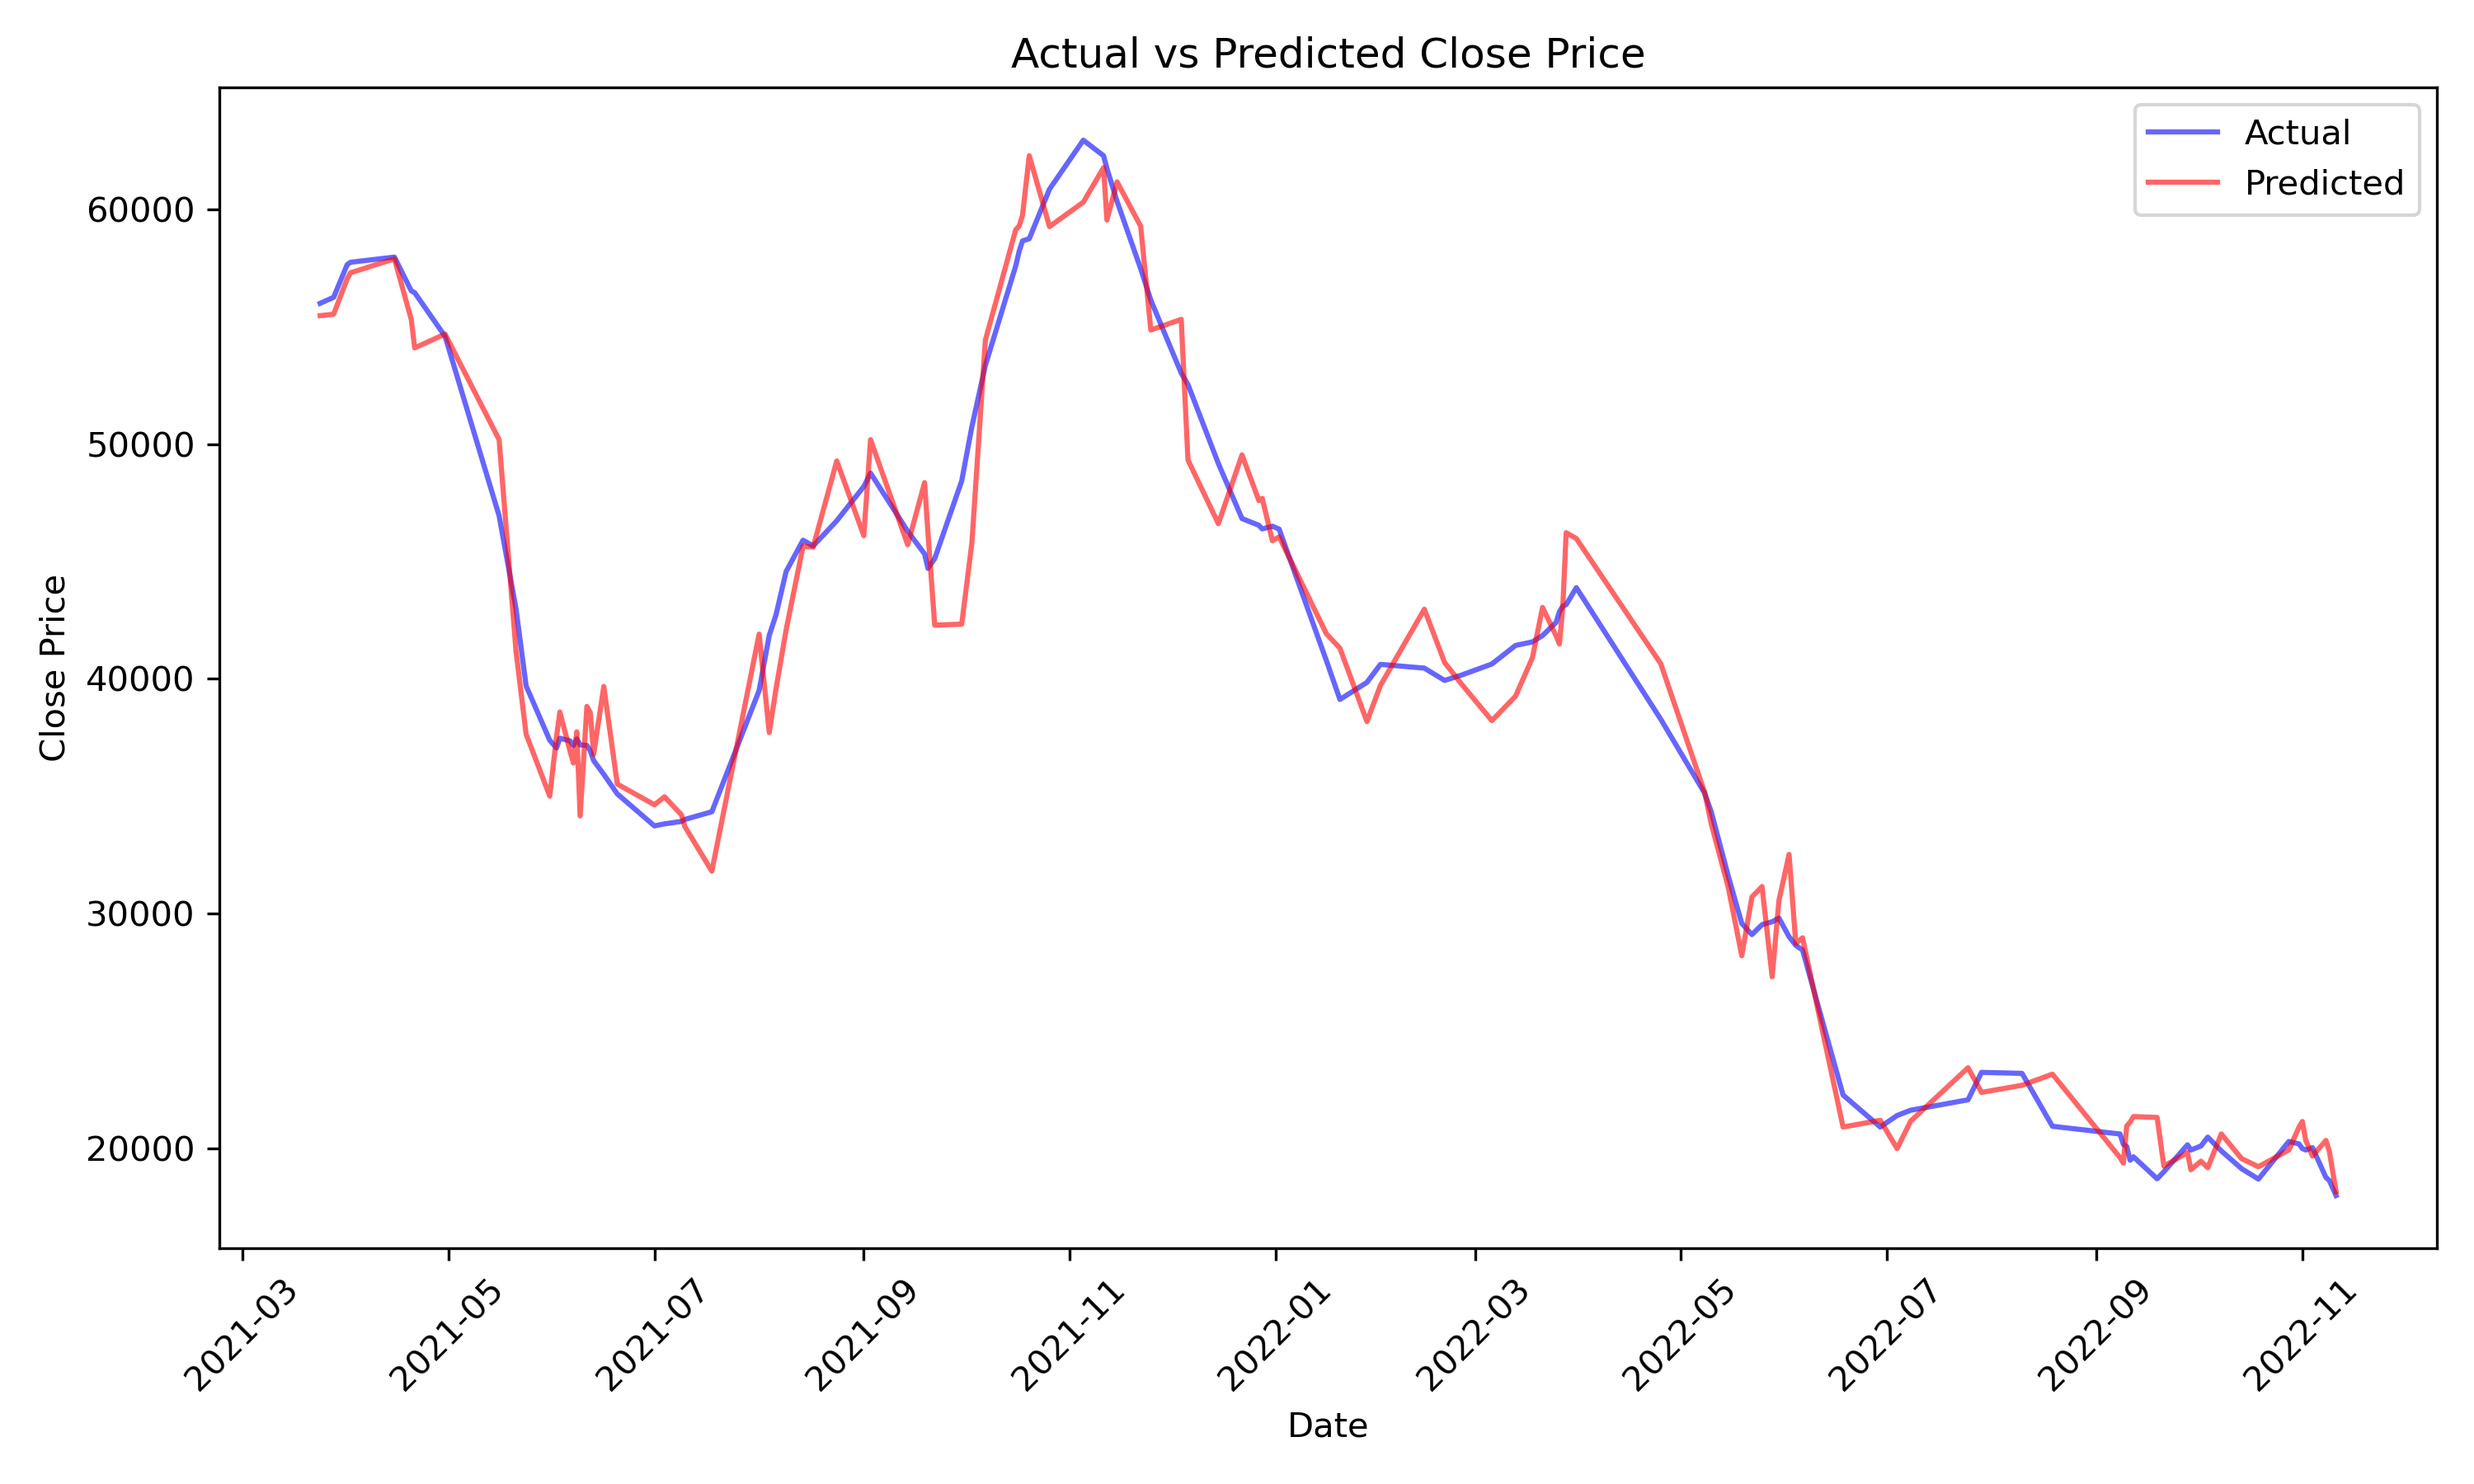
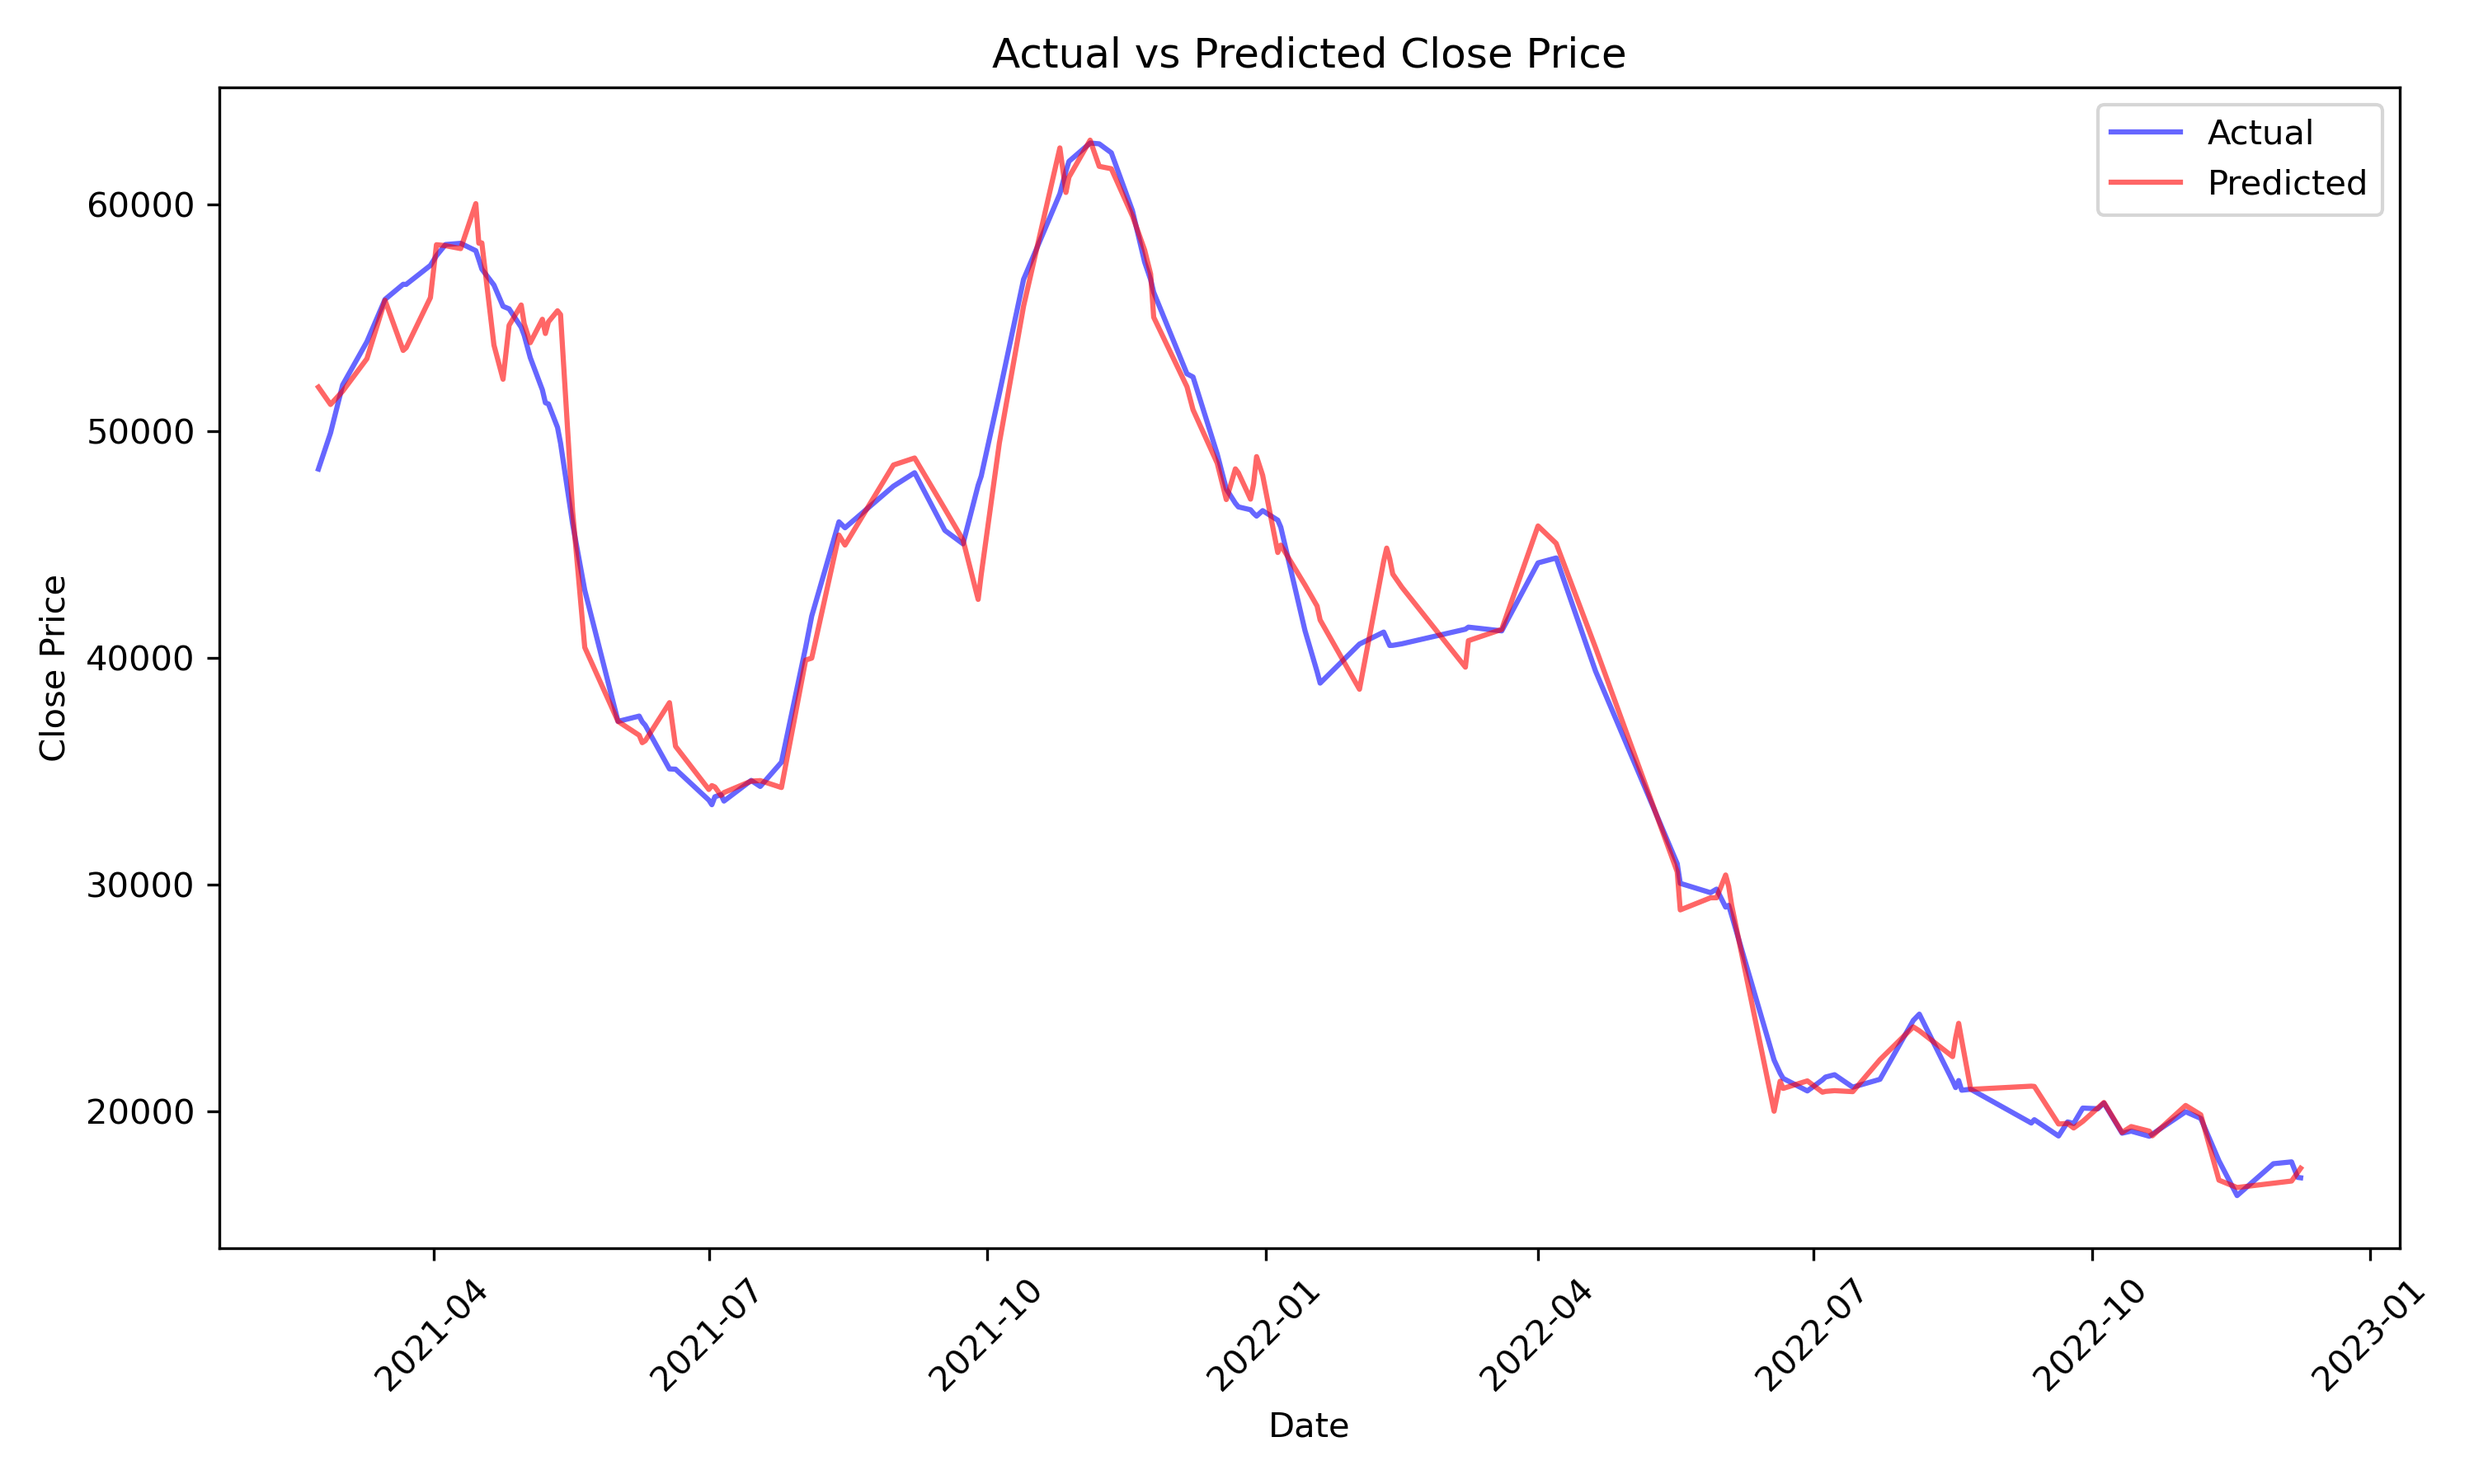
Update RF prediction

diff --git a/Correlation_Analysis/RF_quarterly(without_noise).py b/Correlation_Analysis/RF_quarterly(without_noise).py
@@ -31,11 +31,11 @@ def random_forest_prediction(data, feature):
         daily_info[f'prev_{x}'] = daily_info[x].shift(1)
 
     # Drop rows with NaN values (which will appear in the first row after shifting)
-    daily_info = daily_info.dropna()
+    daily_info = daily_info[daily_info['Close_Combined_Quarterly'].notna()]
 
     # Define X (features) and y (target)
     X = daily_info[variables]
-    y = daily_info['Quarterly_Data_Without_Noise']  # The current day's open price
+    y = daily_info['Close_Combined_Quarterly']  # The current day's close price
     dates = daily_info['Start']  # Store the dates for plotting
 
     # Split the data into training and testing sets
@@ -73,6 +73,6 @@ def random_forest_prediction(data, feature):
     plt.show()
 
 # Run the function
-data = '../data/without_noise/without_noise.csv'
-selected_feature = ['Open', 'High', 'Low', 'Close', 'Volume', 'Market Cap']
+data = '../data/without_noise/all_features_final.csv'
+selected_feature = ['Open_Combined_Weekly', 'High_Combined_Weekly', 'Low_Combined_Weekly', 'Close_Combined_Weekly', 'Volume_Combined_Weekly', 'Market Cap_Combined_Weekly']
 random_forest_prediction(data, selected_feature)

diff --git a/Correlation_Analysis/RF_monthly(without_noise).py b/Correlation_Analysis/RF_monthly(without_noise).py
@@ -32,11 +32,11 @@ def random_forest_prediction(data, feature):
         daily_info[f'prev_{x}'] = daily_info[x].shift(1)
 
     # Drop rows with NaN values (which will appear in the first row after shifting)
-    daily_info = daily_info.dropna()
+    daily_info = daily_info[daily_info['Close_Combined_Monthly'].notna()]
 
     # Define X (features) and y (target)
     X = daily_info[variables]
-    y = daily_info['Monthly_Data_Without_Noise']  # The current day's open price
+    y = daily_info['Close_Combined_Monthly']  # The current day's close price
     dates = daily_info['Start']  # Store the dates for plotting
 
     # Split the data into training and testing sets
@@ -74,6 +74,6 @@ def random_forest_prediction(data, feature):
     plt.show()
 
 # Run the function
-data = '../data/without_noise/without_noise.csv'
-selected_feature = ['Open', 'High', 'Low', 'Close', 'Volume', 'Market Cap']
+data = '../data/without_noise/all_features_final.csv'
+selected_feature = ['Open_Combined_Weekly', 'High_Combined_Weekly', 'Low_Combined_Weekly', 'Close_Combined_Weekly', 'Volume_Combined_Weekly', 'Market Cap_Combined_Weekly']
 random_forest_prediction(data, selected_feature)

diff --git a/Correlation_Analysis/RF_weekly(without_noise).py b/Correlation_Analysis/RF_weekly(without_noise).py
@@ -31,11 +31,11 @@ def random_forest_prediction(data, feature):
         daily_info[f'prev_{x}'] = daily_info[x].shift(1)
 
     # Drop rows with NaN values (which will appear in the first row after shifting)
-    daily_info = daily_info.dropna()
+    daily_info = daily_info[daily_info['Close_Combined_Weekly'].notna()]
 
     # Define X (features) and y (target)
     X = daily_info[variables]
-    y = daily_info['Weekly_Data_Without_Noise']  # The current day's open price
+    y = daily_info['Close_Combined_Weekly']  # The current day's close price
     dates = daily_info['Start']  # Store the dates for plotting
 
     # Split the data into training and testing sets
@@ -73,6 +73,6 @@ def random_forest_prediction(data, feature):
     plt.show()
 
 # Run the function
-data = '../data/without_noise/without_noise.csv'
-selected_feature = ['Open', 'High', 'Low', 'Close', 'Volume', 'Market Cap']
+data = '../data/without_noise/all_features_final.csv'
+selected_feature = ['Open_Combined_Weekly', 'High_Combined_Weekly', 'Low_Combined_Weekly', 'Close_Combined_Weekly', 'Volume_Combined_Weekly', 'Market Cap_Combined_Weekly']
 random_forest_prediction(data, selected_feature)
